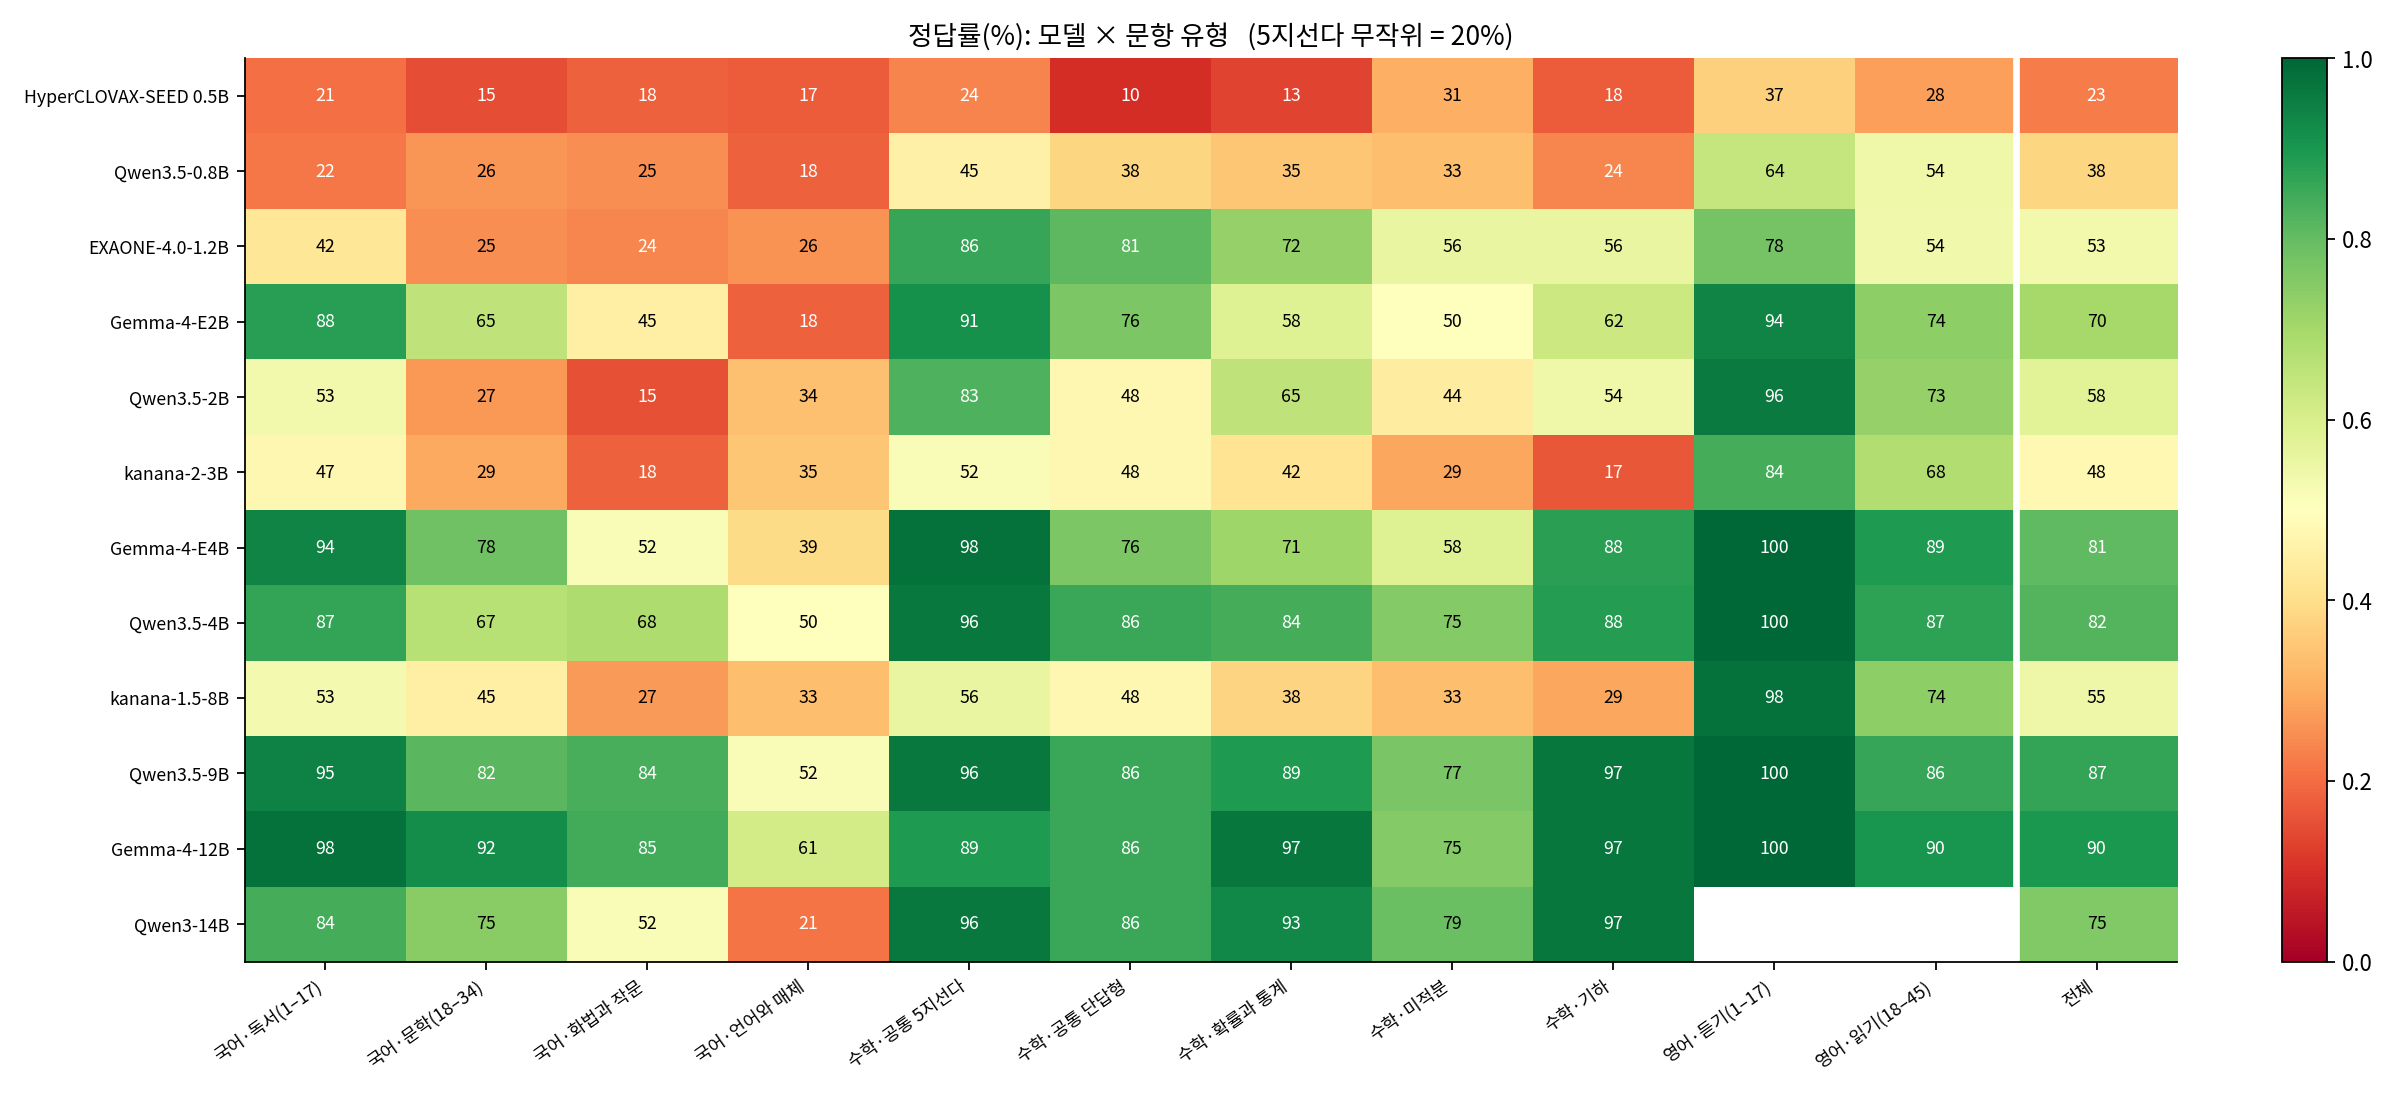
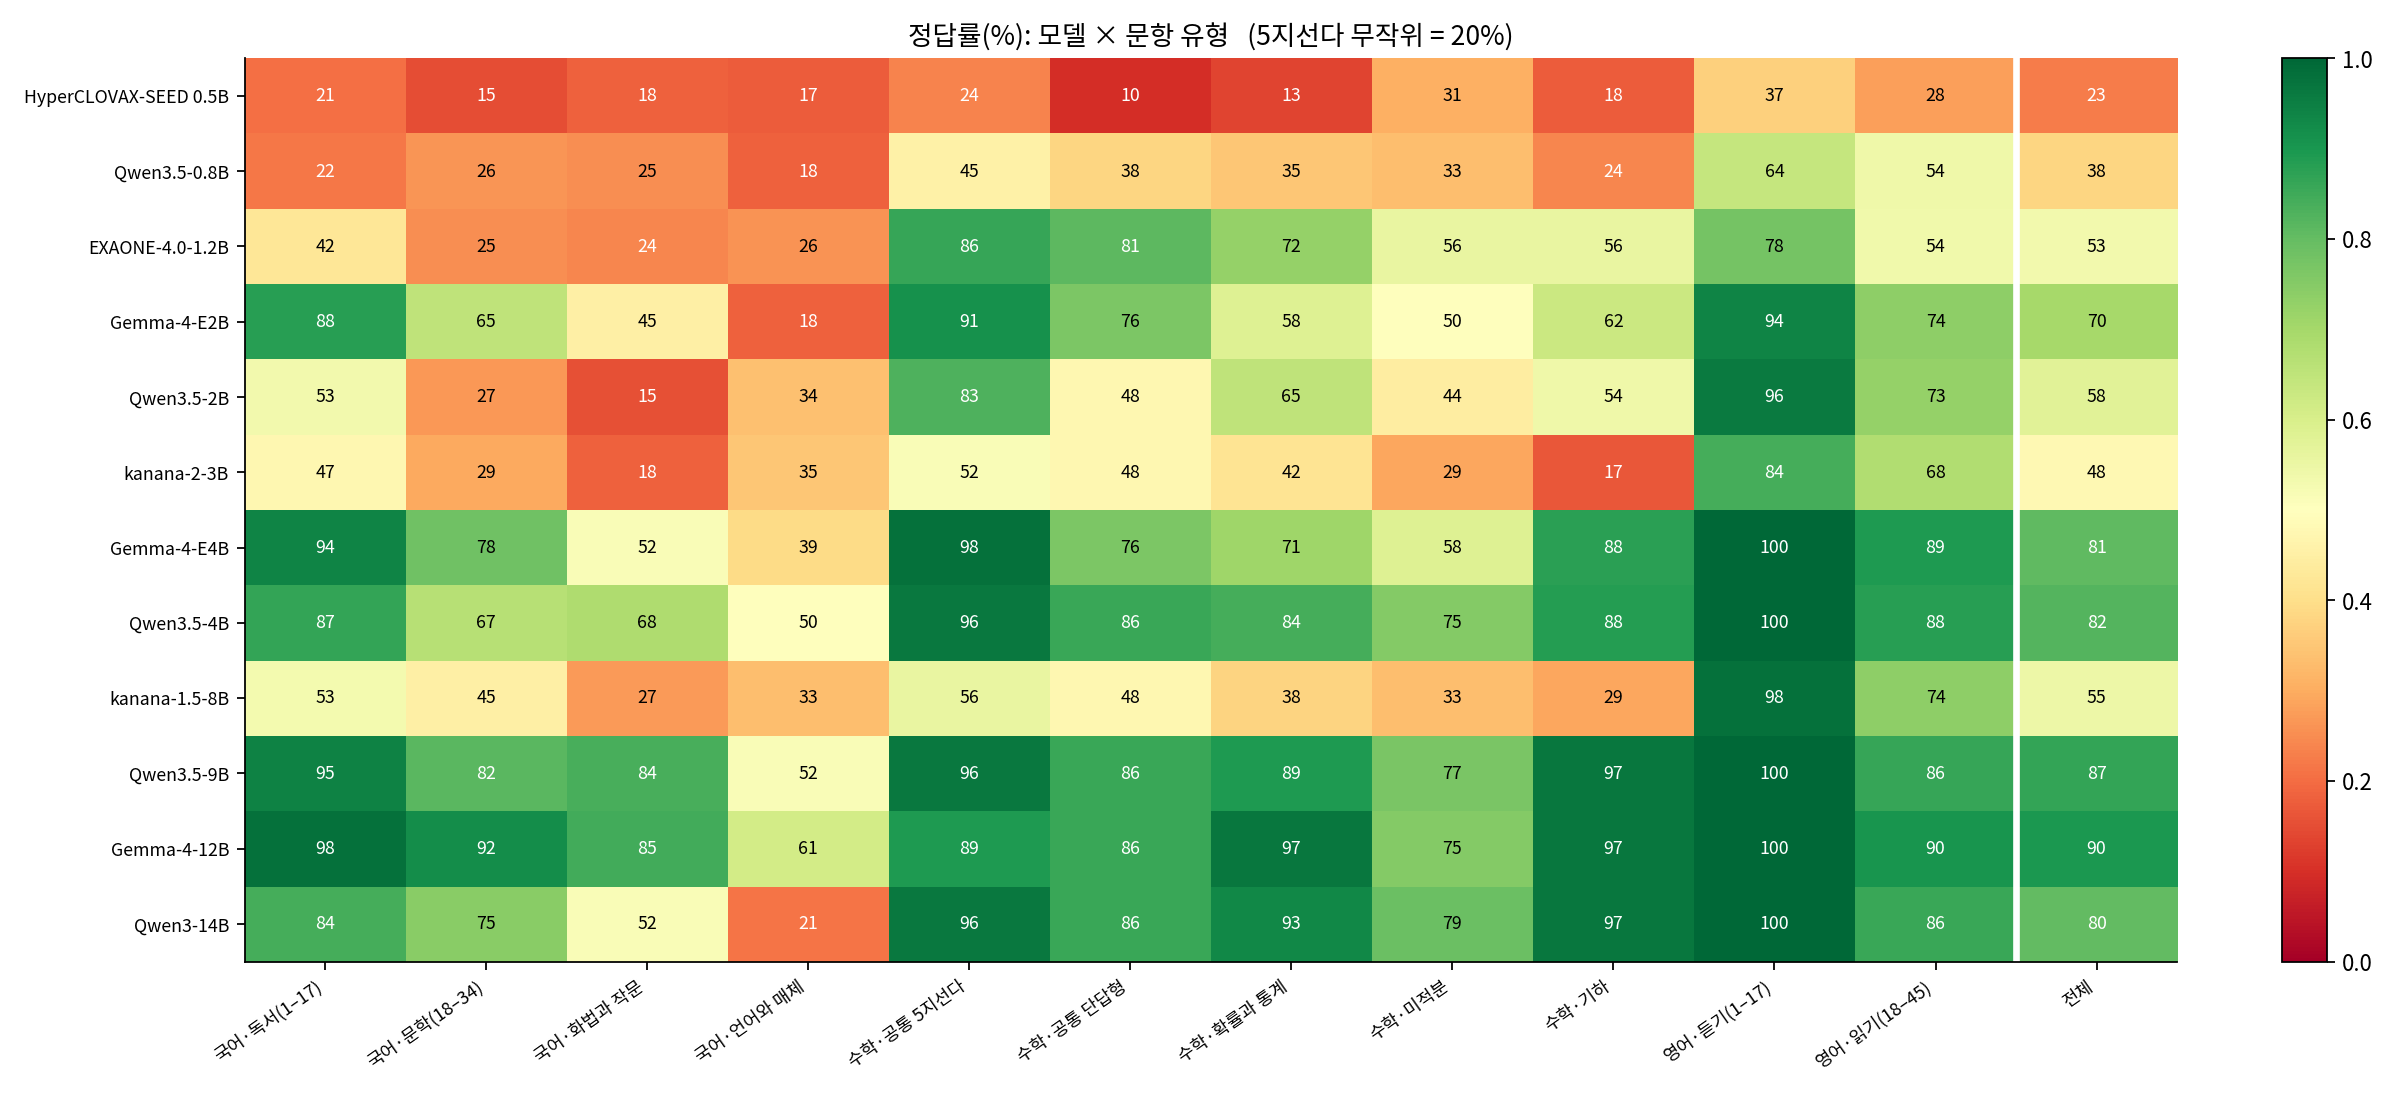
Update results (36 runs)

Changed region(s): [[0.6875, 0.808, 0.9062, 0.9013]]

diff --git a/README.md b/README.md
@@ -12,7 +12,7 @@
 - **국어가 수학보다 어렵다.** 2B 이상 모델 기준으로 국어 정답률이 수학보다 평균 13%p 낮다. 2,000–4,000자 길이의 지문을 읽고 선택지 사이의 미묘한 차이를 가려내는 일이 작은 모델에게는 계산보다 어렵다.
 - **국산 모델**: HyperCLOVAX-SEED 0.5B(국어 18점, 수학 19점, 영어 30점), EXAONE-4.0-1.2B(국어 31점, 수학 75점, 영어 61점), kanana-2-3B(국어 34점, 수학 39점, 영어 73점), kanana-1.5-8B(국어 45점, 수학 42점, 영어 83점).
 
-> 마지막 업데이트: 2026-11-19 17:31 KST. 평가가 진행되는 동안 모델 하나가 끝날 때마다 이 페이지가 자동으로 갱신된다.
+> 마지막 업데이트: 2026-11-19 17:33 KST. 평가가 진행되는 동안 모델 하나가 끝날 때마다 이 페이지가 자동으로 갱신된다.
 
 ## 왜 소형 모델인가
 
@@ -69,6 +69,8 @@
 
 **모든 모델이 3회 모두 틀린 문항**: `math-calc-30`, `math-common-21`
 
+**모든 모델이 3회 모두 맞힌 문항**: `eng-all-20`, `eng-all-24`
+
 ## 문항 해설
 
 대표 문항 몇 개를 골라 모델별 풀이 과정을 구체적으로 분석했다: [docs/examples.md](docs/examples.md)
@@ -88,11 +90,11 @@
 | Qwen3.5-2B | 알리바바 | 2.0 | 보급형 스마트폰 | 33.6 <sub>(31–36)</sub> | 37.7 <sub>(34–42)</sub> | 64.7 <sub>(63–66)</sub> | 59.9 <sub>(56–65)</sub> | 62.1 <sub>(61–63)</sub> | 80.4 <sub>(78–82)</sub> |
 | kanana-2-3B | 카카오 | 3.0 | 중급 스마트폰 | 32.5 <sub>(30–34)</sub> | 36.0 <sub>(29–40)</sub> | 42.6 <sub>(29–54)</sub> | 38.9 <sub>(28–51)</sub> | 36.3 <sub>(25–49)</sub> | 73.3 <sub>(68–80)</sub> |
 | Gemma-4-E4B | 구글 | 4.0 | 중급 스마트폰 | 77.2 <sub>(69–83)</sub> | 73.3 <sub>(67–77)</sub> | 82.7 <sub>(80–84)</sub> | 79.3 <sub>(77–81)</sub> | 88.0 <sub>(84–92)</sub> | 93.0 <sub>(88–98)</sub> |
-| Qwen3.5-4B | 알리바바 | 4.0 | 중급 스마트폰 | 75.0 <sub>(71–81)</sub> | 70.7 <sub>(68–72)</sub> | 88.8 <sub>(86–92)</sub> | 85.9 <sub>(82–88)</sub> | 90.5 <sub>(82–96)</sub> | 91.8 <sub>(86–95)</sub> |
+| Qwen3.5-4B | 알리바바 | 4.0 | 중급 스마트폰 | 75.0 <sub>(71–81)</sub> | 70.7 <sub>(68–72)</sub> | 88.8 <sub>(86–92)</sub> | 85.9 <sub>(82–88)</sub> | 90.5 <sub>(82–96)</sub> | 92.3 <sub>(88–95)</sub> |
 | kanana-1.5-8B | 카카오 | 8.0 | 플래그십 스마트폰 | 44.7 <sub>(40–48)</sub> | 45.3 <sub>(44–47)</sub> | 43.0 <sub>(37–49)</sub> | 42.0 <sub>(40–46)</sub> | 41.0 <sub>(34–46)</sub> | 82.7 <sub>(77–89)</sub> |
 | Qwen3.5-9B | 알리바바 | 9.0 | 플래그십 스마트폰 | 87.7 <sub>(87–88)</sub> | 79.0 <sub>(76–81)</sub> | 90.4 <sub>(89–93)</sub> | 86.7 <sub>(82–92)</sub> | 92.8 <sub>(90–96)</sub> | 90.9 <sub>(89–93)</sub> |
 | Gemma-4-12B | 구글 | 12.0 | 노트북·태블릿 | 91.7 <sub>(88–95)</sub> | 86.2 <sub>(78–93)</sub> | 88.5 <sub>(86–90)</sub> | 81.6 <sub>(82–82)</sub> | 88.5 <sub>(86–90)</sub> | 94.3 <sub>(91–96)</sub> |
-| Qwen3-14B | 알리바바 | 14.8 | 노트북·태블릿 | 72.0 <sub>(68–77)</sub> | 64.7 <sub>(64–66)</sub> | 91.7 <sub>(90–96)</sub> | 87.2 <sub>(85–89)</sub> | 92.8 <sub>(93–93)</sub> | — |
+| Qwen3-14B | 알리바바 | 14.8 | 노트북·태블릿 | 72.0 <sub>(68–77)</sub> | 64.7 <sub>(64–66)</sub> | 91.7 <sub>(90–96)</sub> | 87.2 <sub>(85–89)</sub> | 92.8 <sub>(93–93)</sub> | 90.3 <sub>(89–93)</sub> |
 
 **영역별 원점수**
 
@@ -138,11 +140,11 @@
 | Qwen3.5-2B | 0.34 / 0.29 / 0.23 / 0.25 / 12221 | 0.63 / 0.59 / 0.37 / 0.37 / 10424 | 0.81 / 0.81 / 0.04 / 0.05 / 7274 |
 | kanana-2-3B | 0.34 / 0.33 / 0.00 / 0.00 / 176 | 0.39 / 0.39 / 0.01 / 0.00 / 596 | 0.74 / 0.74 / 0.00 / 0.00 / 135 |
 | Gemma-4-E4B | 0.70 / 0.69 / 0.02 / 0.00 / 1955 | 0.81 / 0.81 / 0.01 / 0.00 / 3955 | 0.93 / 0.93 / 0.00 / 0.00 / 1105 |
-| Qwen3.5-4B | 0.70 / 0.70 / 0.04 / 0.07 / 8813 | 0.88 / 0.87 / 0.12 / 0.12 / 7250 | 0.92 / 0.92 / 0.01 / 0.00 / 3809 |
+| Qwen3.5-4B | 0.70 / 0.70 / 0.04 / 0.07 / 8813 | 0.88 / 0.87 / 0.12 / 0.12 / 7250 | 0.93 / 0.92 / 0.01 / 0.00 / 3809 |
 | kanana-1.5-8B | 0.42 / 0.42 / 0.00 / 0.00 / 343 | 0.43 / 0.43 / 0.01 / 0.00 / 857 | 0.83 / 0.83 / 0.00 / 0.00 / 217 |
 | Qwen3.5-9B | 0.80 / 0.79 / 0.07 / 0.07 / 7616 | 0.90 / 0.89 / 0.11 / 0.11 / 7024 | 0.91 / 0.91 / 0.01 / 0.01 / 3250 |
 | Gemma-4-12B | 0.86 / 0.86 / 0.05 / 0.05 / 5240 | 0.89 / 0.88 / 0.12 / 0.12 / 6271 | 0.94 / 0.94 / 0.00 / 0.00 / 1211 |
-| Qwen3-14B | 0.62 / 0.62 / 0.00 / 0.00 / 1395 | 0.91 / 0.90 / 0.10 / 0.09 / 4721 | — |
+| Qwen3-14B | 0.62 / 0.62 / 0.00 / 0.00 / 1395 | 0.91 / 0.90 / 0.10 / 0.09 / 4721 | 0.91 / 0.91 / 0.00 / 0.00 / 635 |
 
 ## 평가 방법
 
